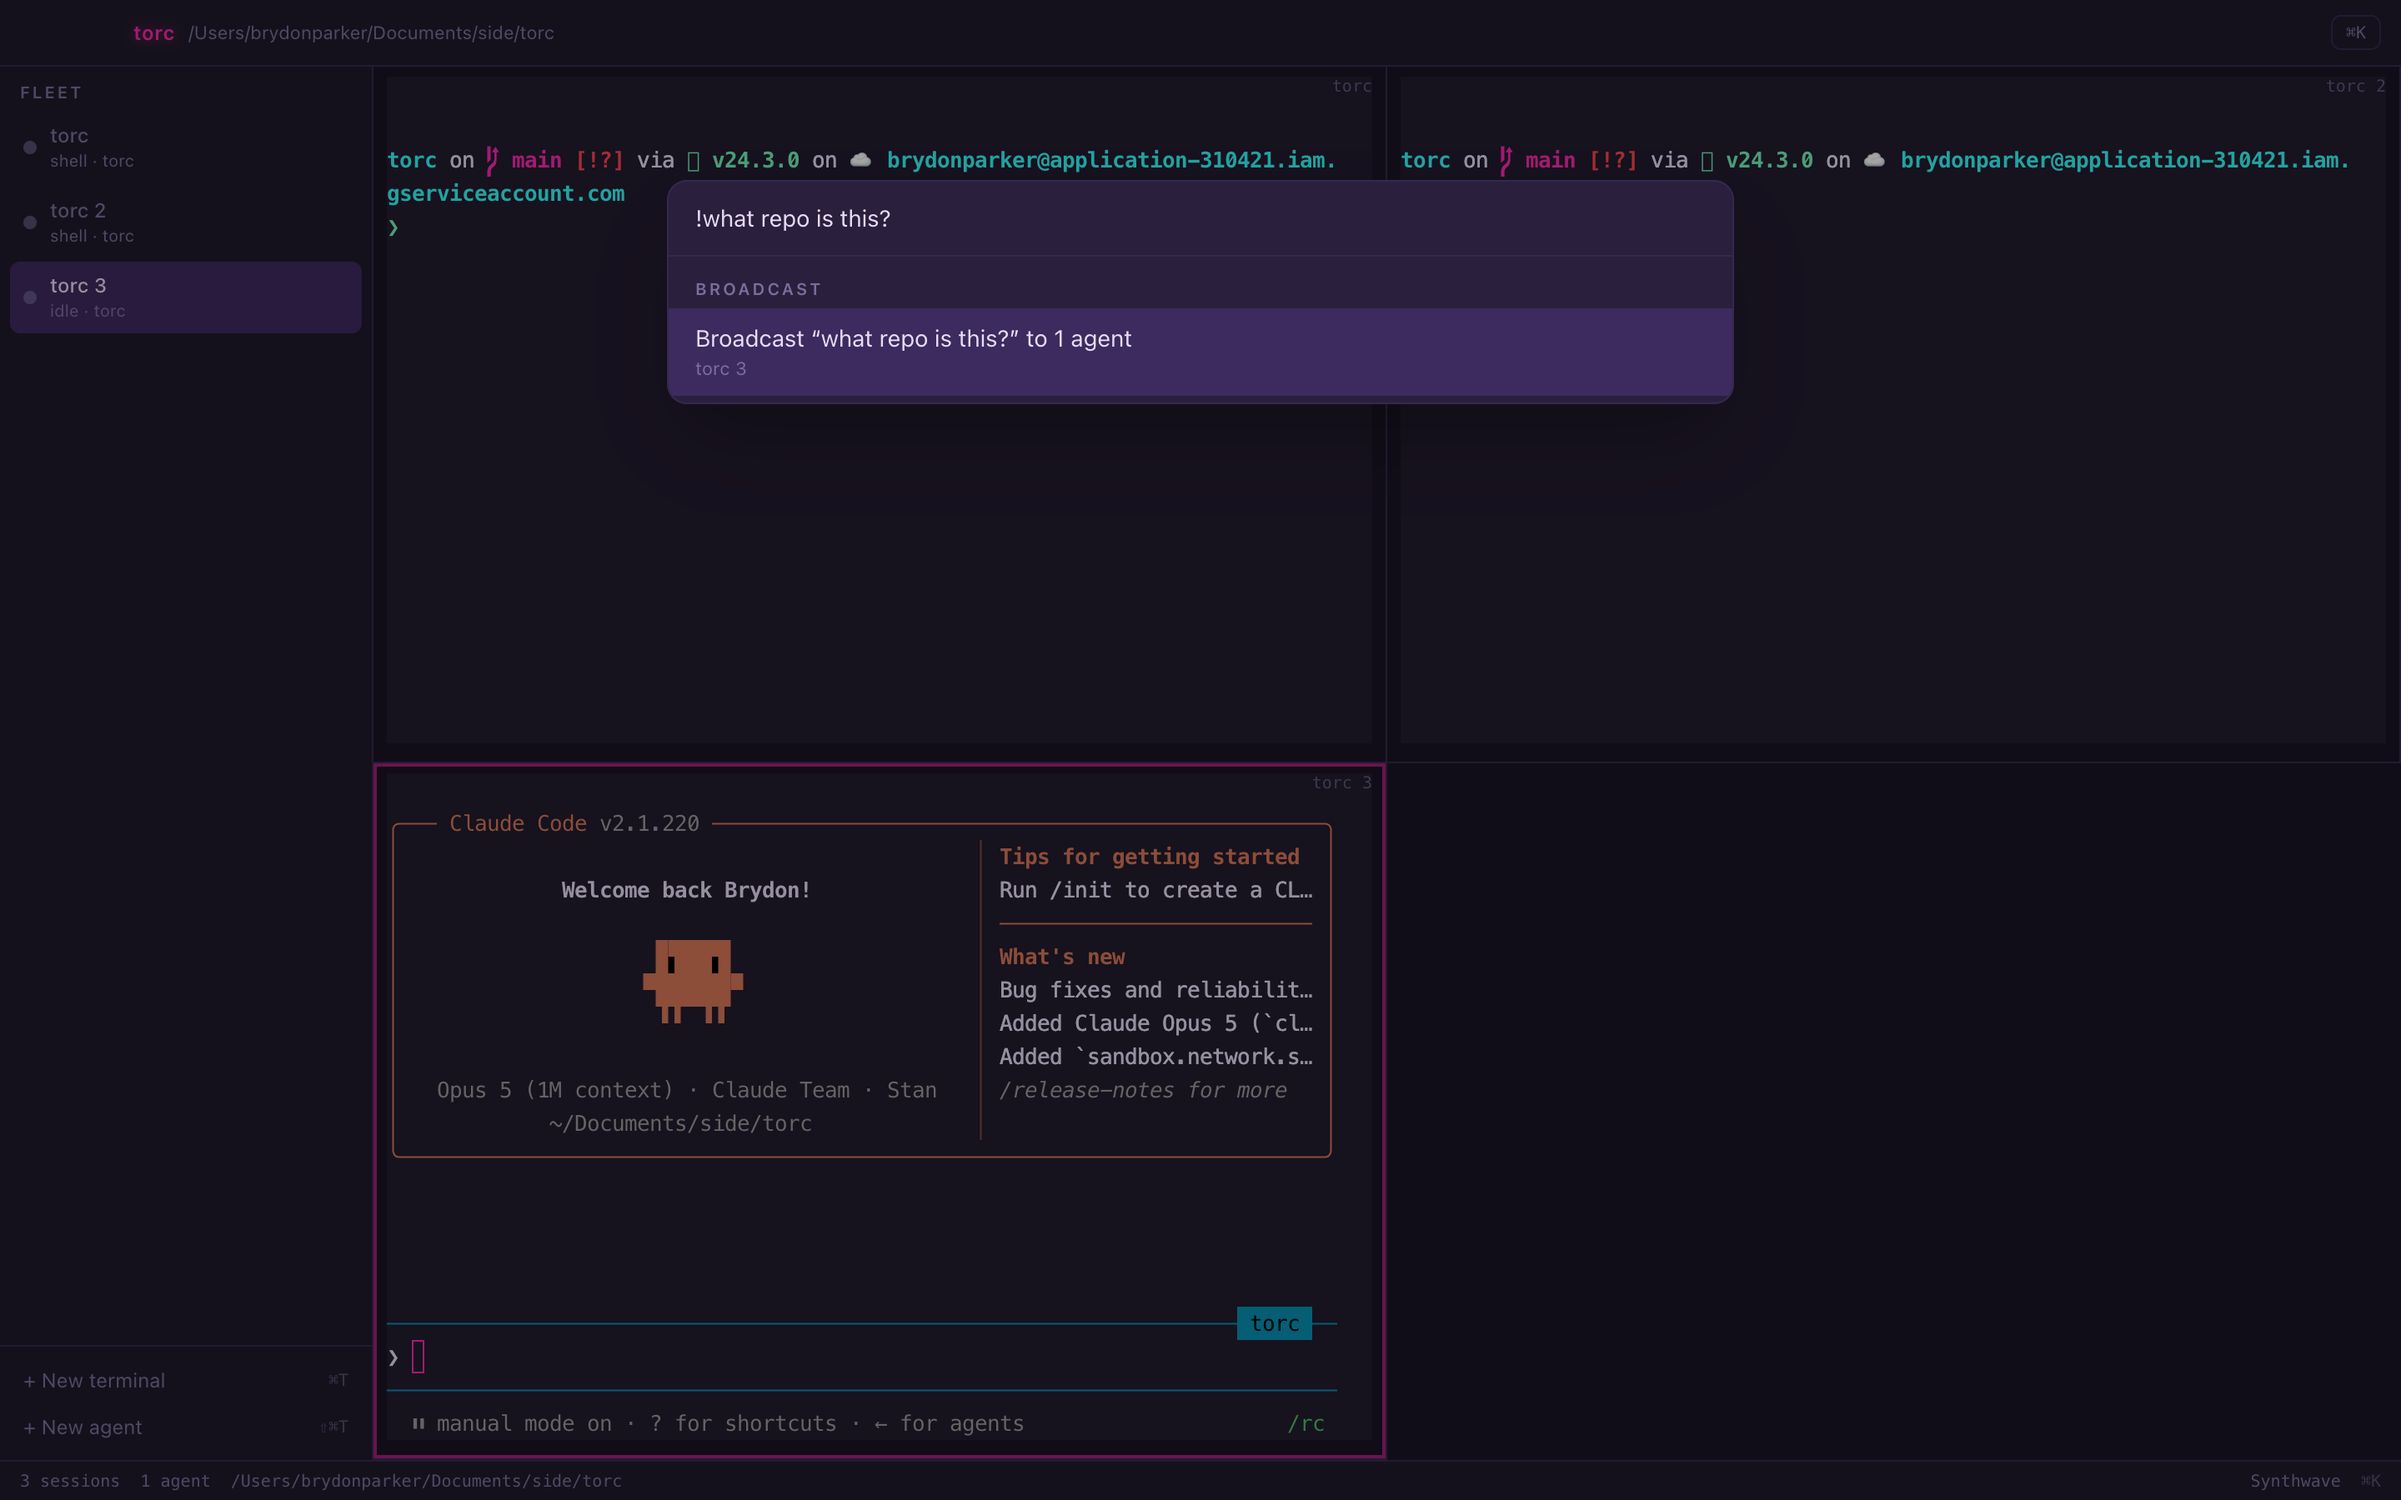
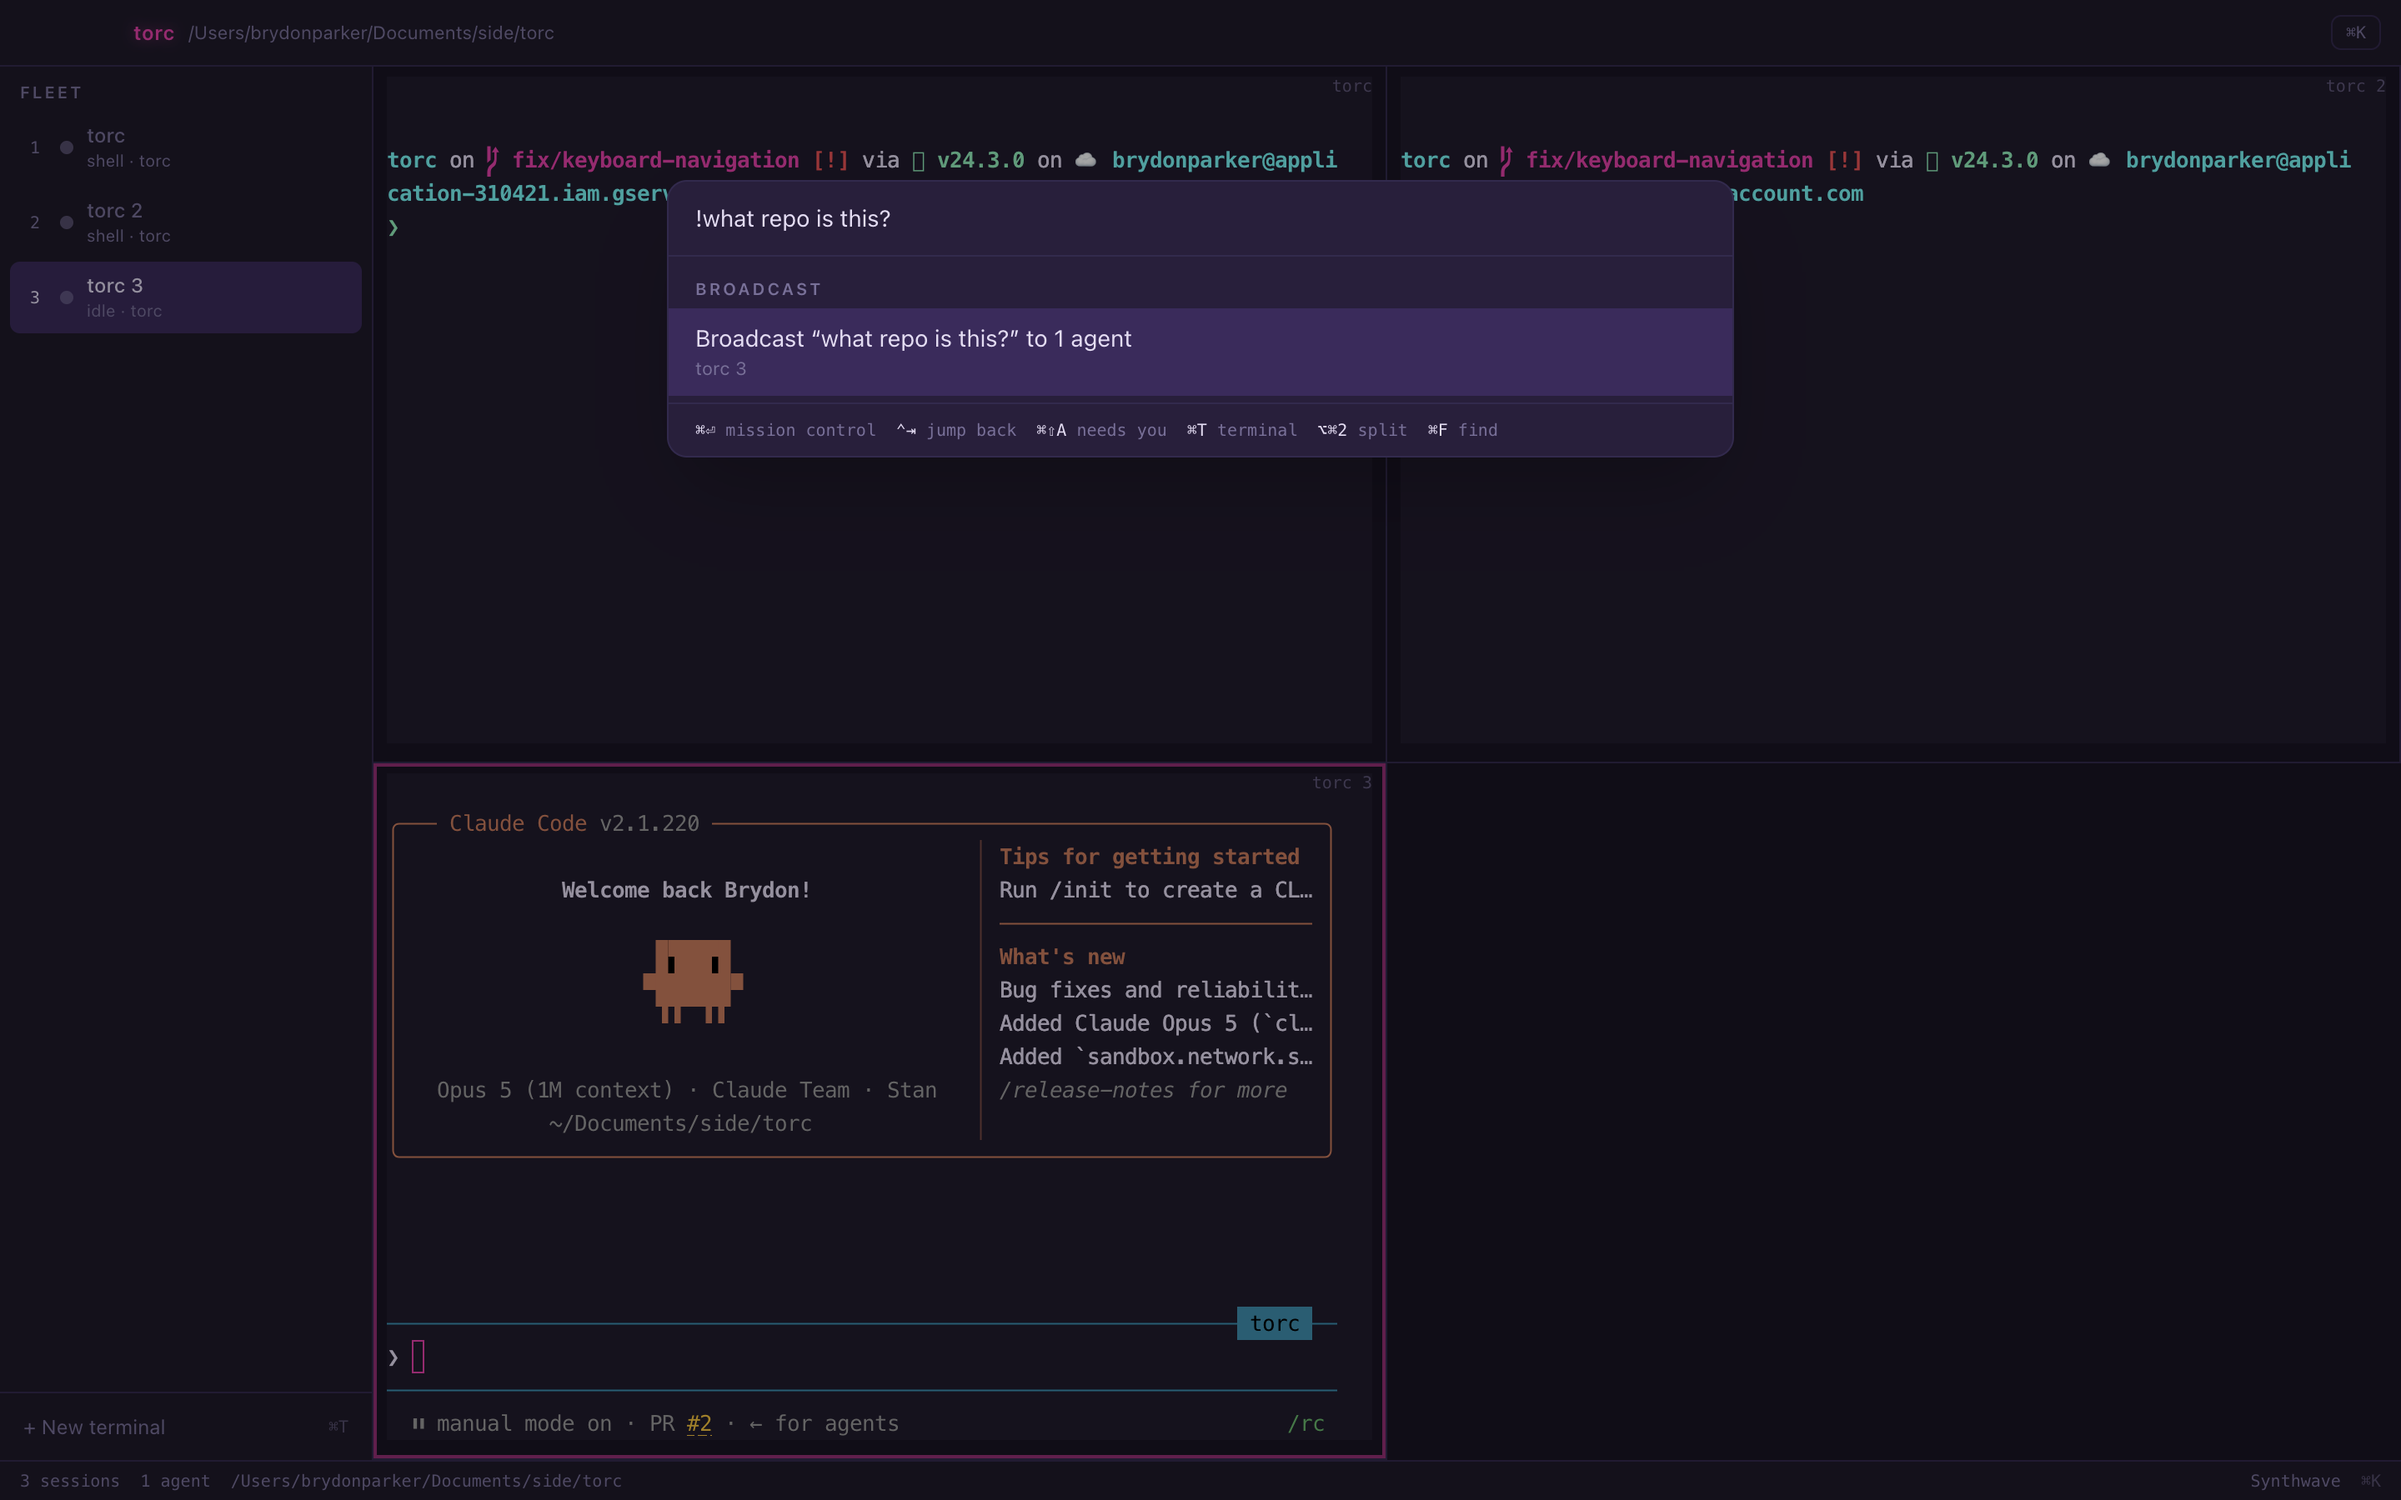
Refresh README screenshots for the new palette and rail
Adds the default ⌘K state — Mission Control leading with its shortcut, agents
numbered, chord strip along the bottom — and refreshes the splits shot to show
the always-visible pane numbers.

Drops two unused screenshots, including the workspace one that exposed internals
of a private repo.

Claude-Session: https://claude.ai/code/session_01NooyyRtFhRvCidfuCqqwNn

diff --git a/README.md b/README.md
@@ -46,8 +46,13 @@ pane is outlined:
 
 ![Four terminals at once in the Synthwave theme](docs/screenshots/splits-synthwave.png)
 
-⌘K drives everything, with prefix modes. Here `!` broadcasts a prompt to the whole fleet — note it
-targets the one agent and skips the two plain shells:
+⌘K leads with whichever view you're *not* in, numbers every agent, and keeps the shortcuts worth
+knowing along the bottom — so the palette is also where you learn the keyboard:
+
+![The command palette, led by Mission Control with its shortcut](docs/screenshots/palette.png)
+
+It has prefix modes too. Here `!` broadcasts a prompt to the whole fleet — note it targets the one
+agent and skips the two plain shells:
 
 ![Broadcasting a prompt to every agent from the command palette](docs/screenshots/palette-broadcast.png)
 
